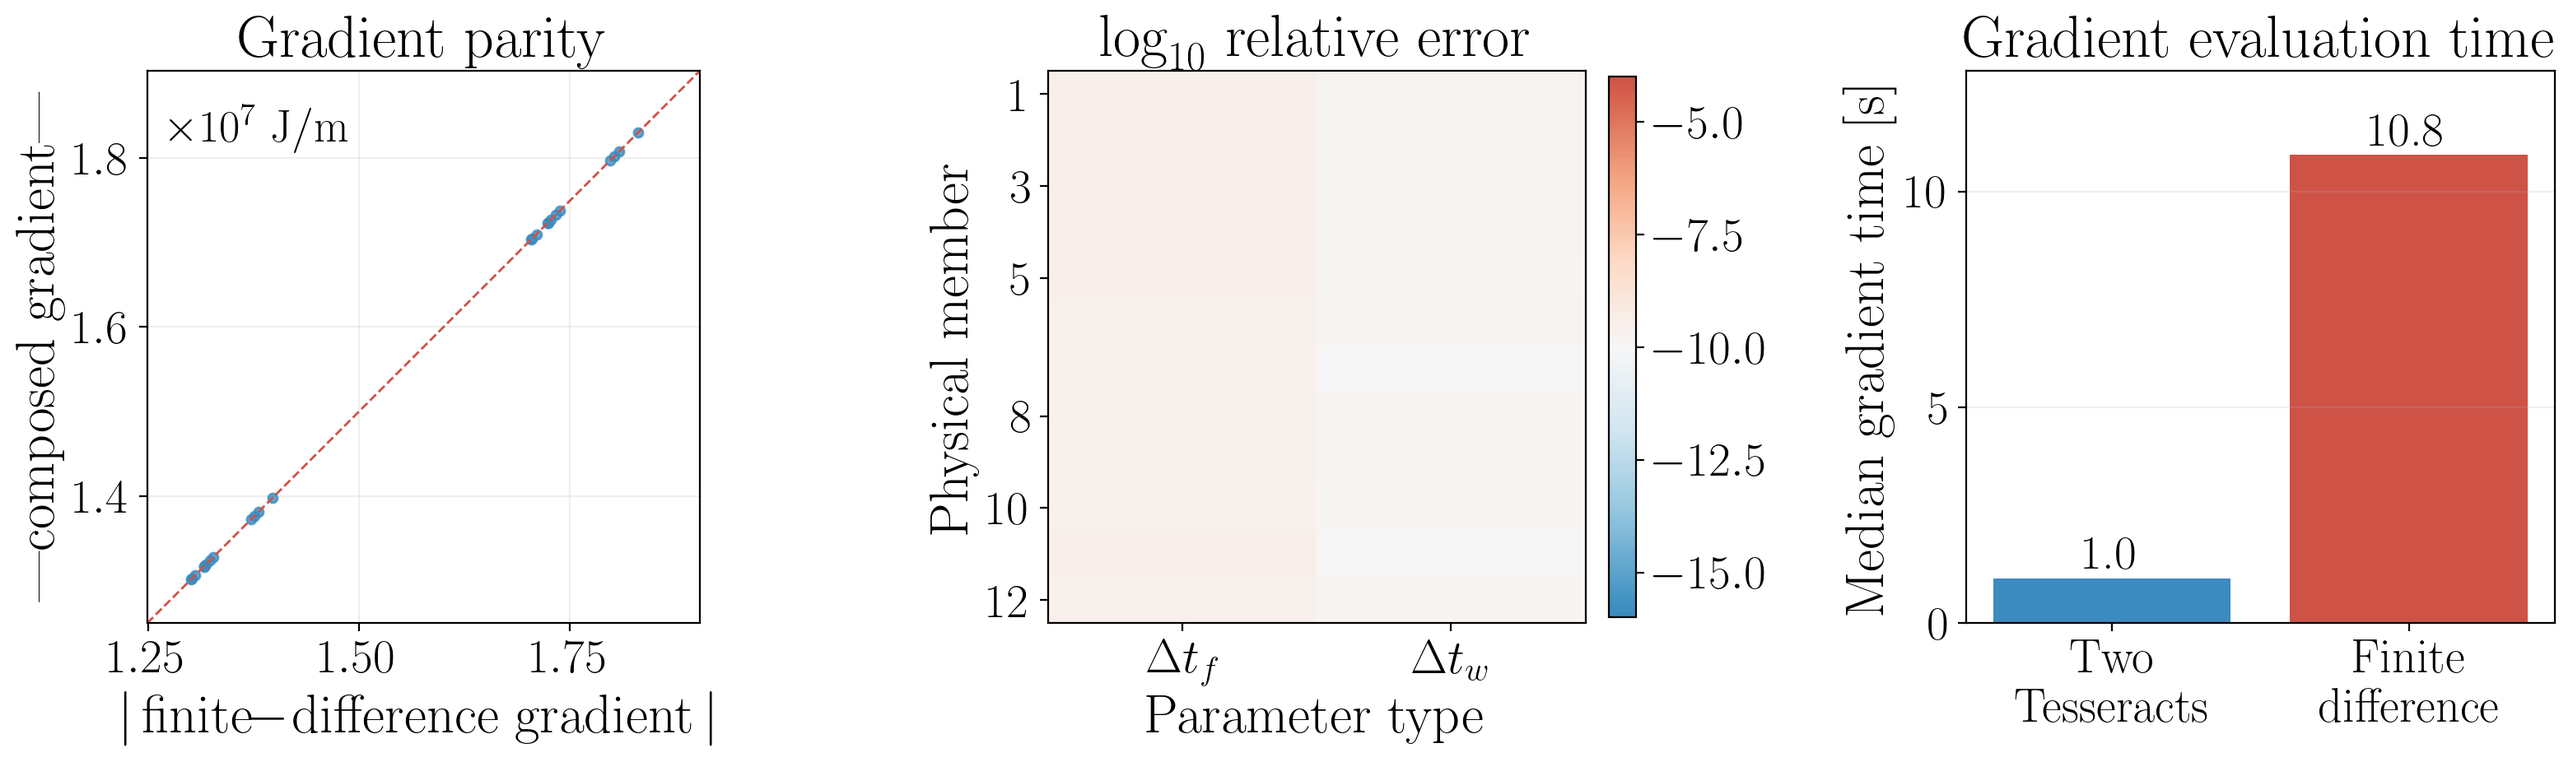
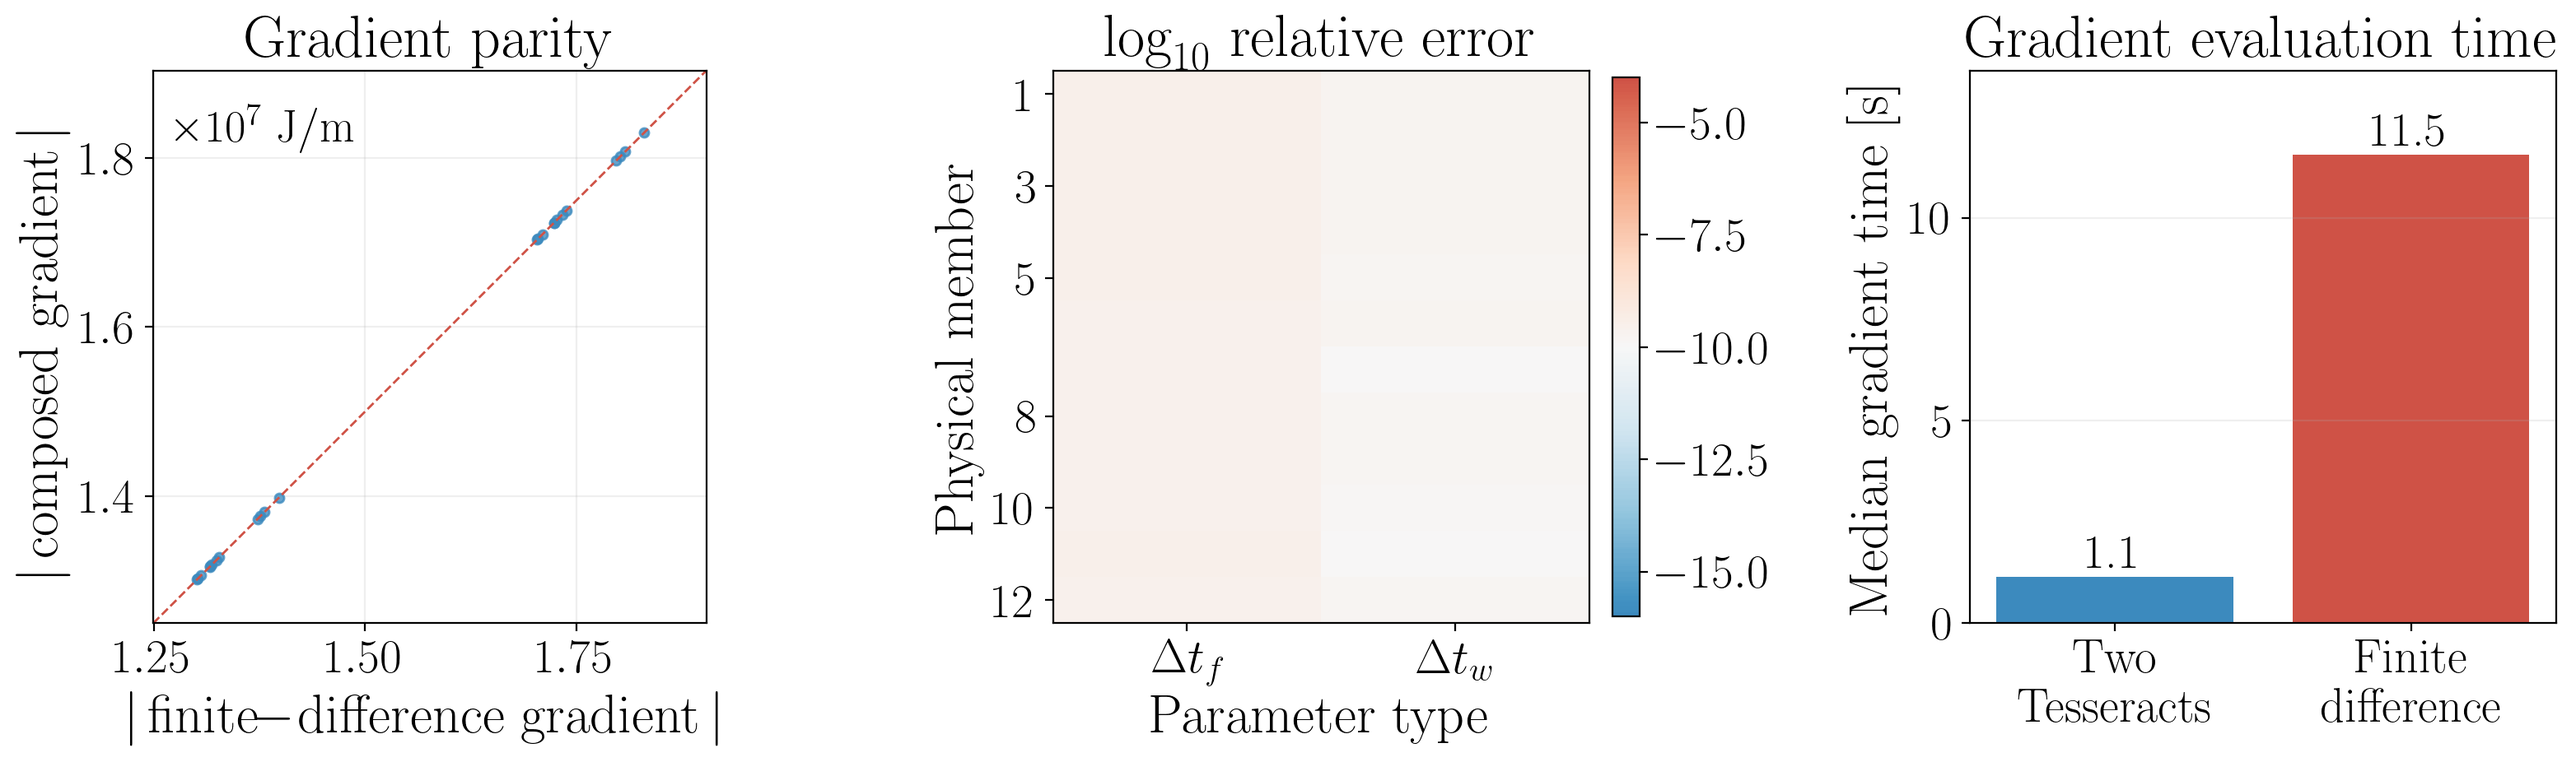
update demo video

diff --git a/utils/gradient_check.py b/utils/gradient_check.py
@@ -73,7 +73,11 @@ def plot_gradient_check(
     parity.set_ylim(lower, upper)
     parity.set_aspect("equal", adjustable="box")
     parity.set_xlabel(r"$|\,\mathrm{finite\!\!-\!difference\ gradient}\,|$", fontsize=24)
-    parity.set_ylabel(f"|{actual_label}|", fontsize=24)
+    actual_label_math = actual_label.replace(" ", r"\ ")
+    parity.set_ylabel(
+        rf"$|\,\mathrm{{{actual_label_math}}}\,|$",
+        fontsize=24,
+    )
     parity.set_title("Gradient parity", fontsize=26)
     scale_text = rf"$\times 10^{{{exponent}}}$"
     if gradient_unit:

diff --git a/README.md b/README.md
@@ -12,6 +12,16 @@ Authors: [Weipeng Xu](https://github.com/xwpken), [Ziyuan Xie](https://github.co
 
 For any questions, please contact the team at [wxuby@connect.ust.hk](mailto:wxuby@connect.ust.hk)
 
+## Demo video
+
+A short demo video is available by clicking the image below.
+
+<p align="center">
+  <a href="https://www.youtube.com/watch?v=jEtrD8aqPr4">
+    <img src="figs/ytb.png" alt="Watch the OpenSees-SHM-Tesseract demo video on YouTube" width="900">
+  </a>
+</p>
+
 ## Table of contents
 - [Introduction](#introduction)
 - [Modeling framework](#modeling-framework)
